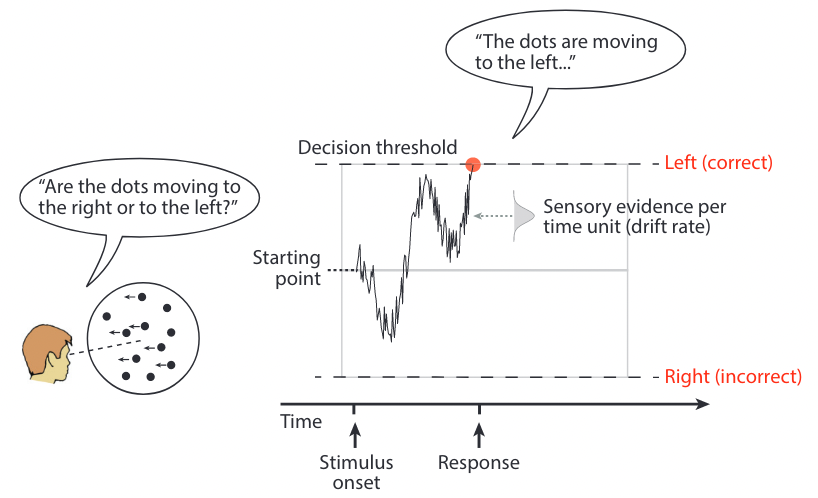
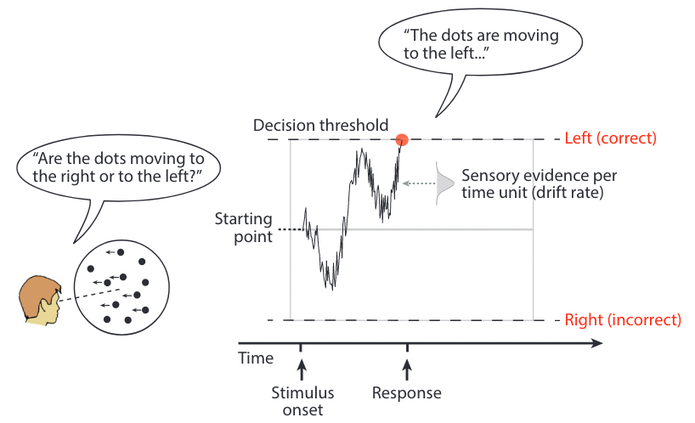
Add note for 2024 team meeting

diff --git a/notes/team_meeting_2024/README.md b/notes/team_meeting_2024/README.md
@@ -1,0 +1,59 @@
+---
+marp: true
+math: true  # Use default Marp engin for math rendering
+---
+
+<!-- Apply header and footer to first slide only -->
+<!-- _header: "[![INRIA logo](../inria_logo.jpg)](https://www.inria.fr)" -->
+<!-- _footer: "[Baptiste Pesquet](https://www.bpesquet.fr)" -->
+
+# Confidence as hyperparameter tuning for sequential decision-making
+
+> [Mnémosyne](https://www.inria.fr/fr/mnemosyne) team meeting - October 17th, 2024
+
+---
+
+<!-- Show pagination, starting with second slide -->
+<!-- paginate: true -->
+
+## Metacognition
+
+[![Metacognition diagram](../confidence/images/metacognition_diagram.png)](../confidence/README.md#metacognition)
+
+---
+
+## Sequential decision-making
+
+- Speed/Accuracy Tradeoff.
+- Canonical model: integration of noisy information until a threshold is reached.
+- Many refinements: multi-alternative choice, impact of learning, change of mind, etc.
+
+[![](../decision_making/images/eam_rdk.png)](../decision_making/README.md#sequential-sampling)
+
+---
+
+## Confidence for decision-making
+
+- Quantifies the degree of certainty associated to a decision.
+- Canonical model: post-decisional computation based on accumulated info.
+- Can be used to alter the subsequent decisions.
+
+![Balance of Evidence example](../confidence/images/BoE.png)
+
+---
+
+## Proposed architecture: confidence as hyperparameter tuning for sequential decision-making
+
+![Architecture of a confidence-regulated AI](images/metacognitive_agent.png)
+
+---
+
+## Current & next steps
+
+- Article for [ESANN 2025](https://www.esann.org/).
+- Detailed review of confidence for decision-making (future PhD chapter).
+- First experiment on very basic task.
+
+---
+
+## Questions ?

diff --git a/README.md b/README.md
@@ -6,8 +6,9 @@ Thie repository contains resources related to my research in artificial metacogn
 
 ### Notes
 
-- [Introduction to the theory of decision-making](notes/decision_making/README.md)
-- [Confidence in decision-making](notes/confidence/README.md)
+- [Confidence as hyperparemeter tuning for sequential decision-making](notes/team_meeting_2024/README.md) (Oct. 2024)
+- [Confidence in decision-making](notes/confidence/README.md) (June 2024)
+- [Introduction to the theory of decision-making](notes/decision_making/README.md) (Jan. 2024)
 
 ### Publications
 
